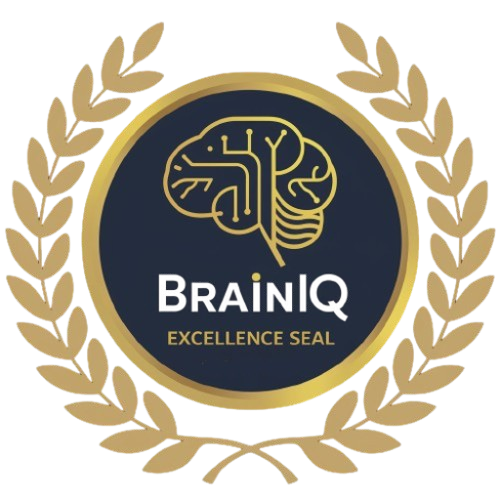
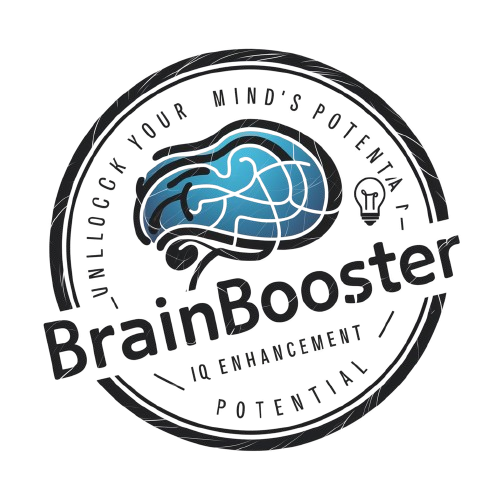
update stamp image name

diff --git a/src/Components/Certificate/index.tsx b/src/Components/Certificate/index.tsx
@@ -1,12 +1,12 @@
 import { forwardRef } from "react";
 import styles from "./certificate.module.scss";
-import logoCertificate from "../../assets/logi1.png";
+import logoCertificate from "../../assets/logo_3.png";
 // import signatureImg from "../../assets/signature_Imgs/image.png";
 // import signatureImg2 from "../../assets/signature_Imgs/img_2.svg";
 import "bootstrap-icons/font/bootstrap-icons.css";
 
 import img_stamp from "../../assets/stamp_img/stamp.png";
-import dotes_img from "../../assets/stamp_img/dotes.png";
+// import dotes_img from "../../assets/stamp_img/dotes.png";
 
 // Define the props interface
 interface CertificateProps {
@@ -19,9 +19,9 @@ const Certificate = forwardRef<HTMLDivElement, CertificateProps>(
     return (
       <div ref={ref} className={styles.certficateContainer}>
         {/* DIV DOTES */}
-        <div className={styles.dotesImg}>
+        {/* <div className={styles.dotesImg}>
           <img src={dotes_img} alt={dotes_img} />
-        </div>
+        </div> */}
         <div className={styles.contentCertficate}>
           <div className={styles.box_logo}>
             <img src={logoCertificate} alt="Logo" />
@@ -86,7 +86,7 @@ const Certificate = forwardRef<HTMLDivElement, CertificateProps>(
             </div>
             <div className={styles.dateBox2}>
               <p>
-                POWERED BY: <span className={styles.appName}>BRAIN IQ</span>
+                POWERED BY: <span className={styles.appName}>Brainbooster</span>
               </p>
             </div>
           </div>

diff --git a/src/Components/Pages/about-us/style.css b/src/Components/Pages/about-us/style.css
@@ -66,14 +66,14 @@ li {
   position: relative;
 }
 
-li::before {
+/* li::before {
   content: "•";
   color: #3498db;
   font-weight: bold;
   display: inline-block;
   width: 1em;
   margin-left: -1em;
-}
+} */
 
 .developer-info {
   display: flex;

diff --git a/src/Components/QuizTest/result.css b/src/Components/QuizTest/result.css
@@ -22,7 +22,7 @@ body {
 
 .results-container {
   width: 90%;
-  max-width: 800px;
+  /* max-width: 800px; */
   margin: 3rem auto;
   padding: 2.5rem;
   background-color: #ffffff;

diff --git a/src/Components/Navbar/navbar.module.scss b/src/Components/Navbar/navbar.module.scss
@@ -16,7 +16,7 @@
   display: flex;
   justify-content: space-between;
   align-items: center;
-  padding: 1rem 5%;
+  padding: 0.5rem 5%;
   max-width: 1200px;
   margin: 0 auto;
 }
